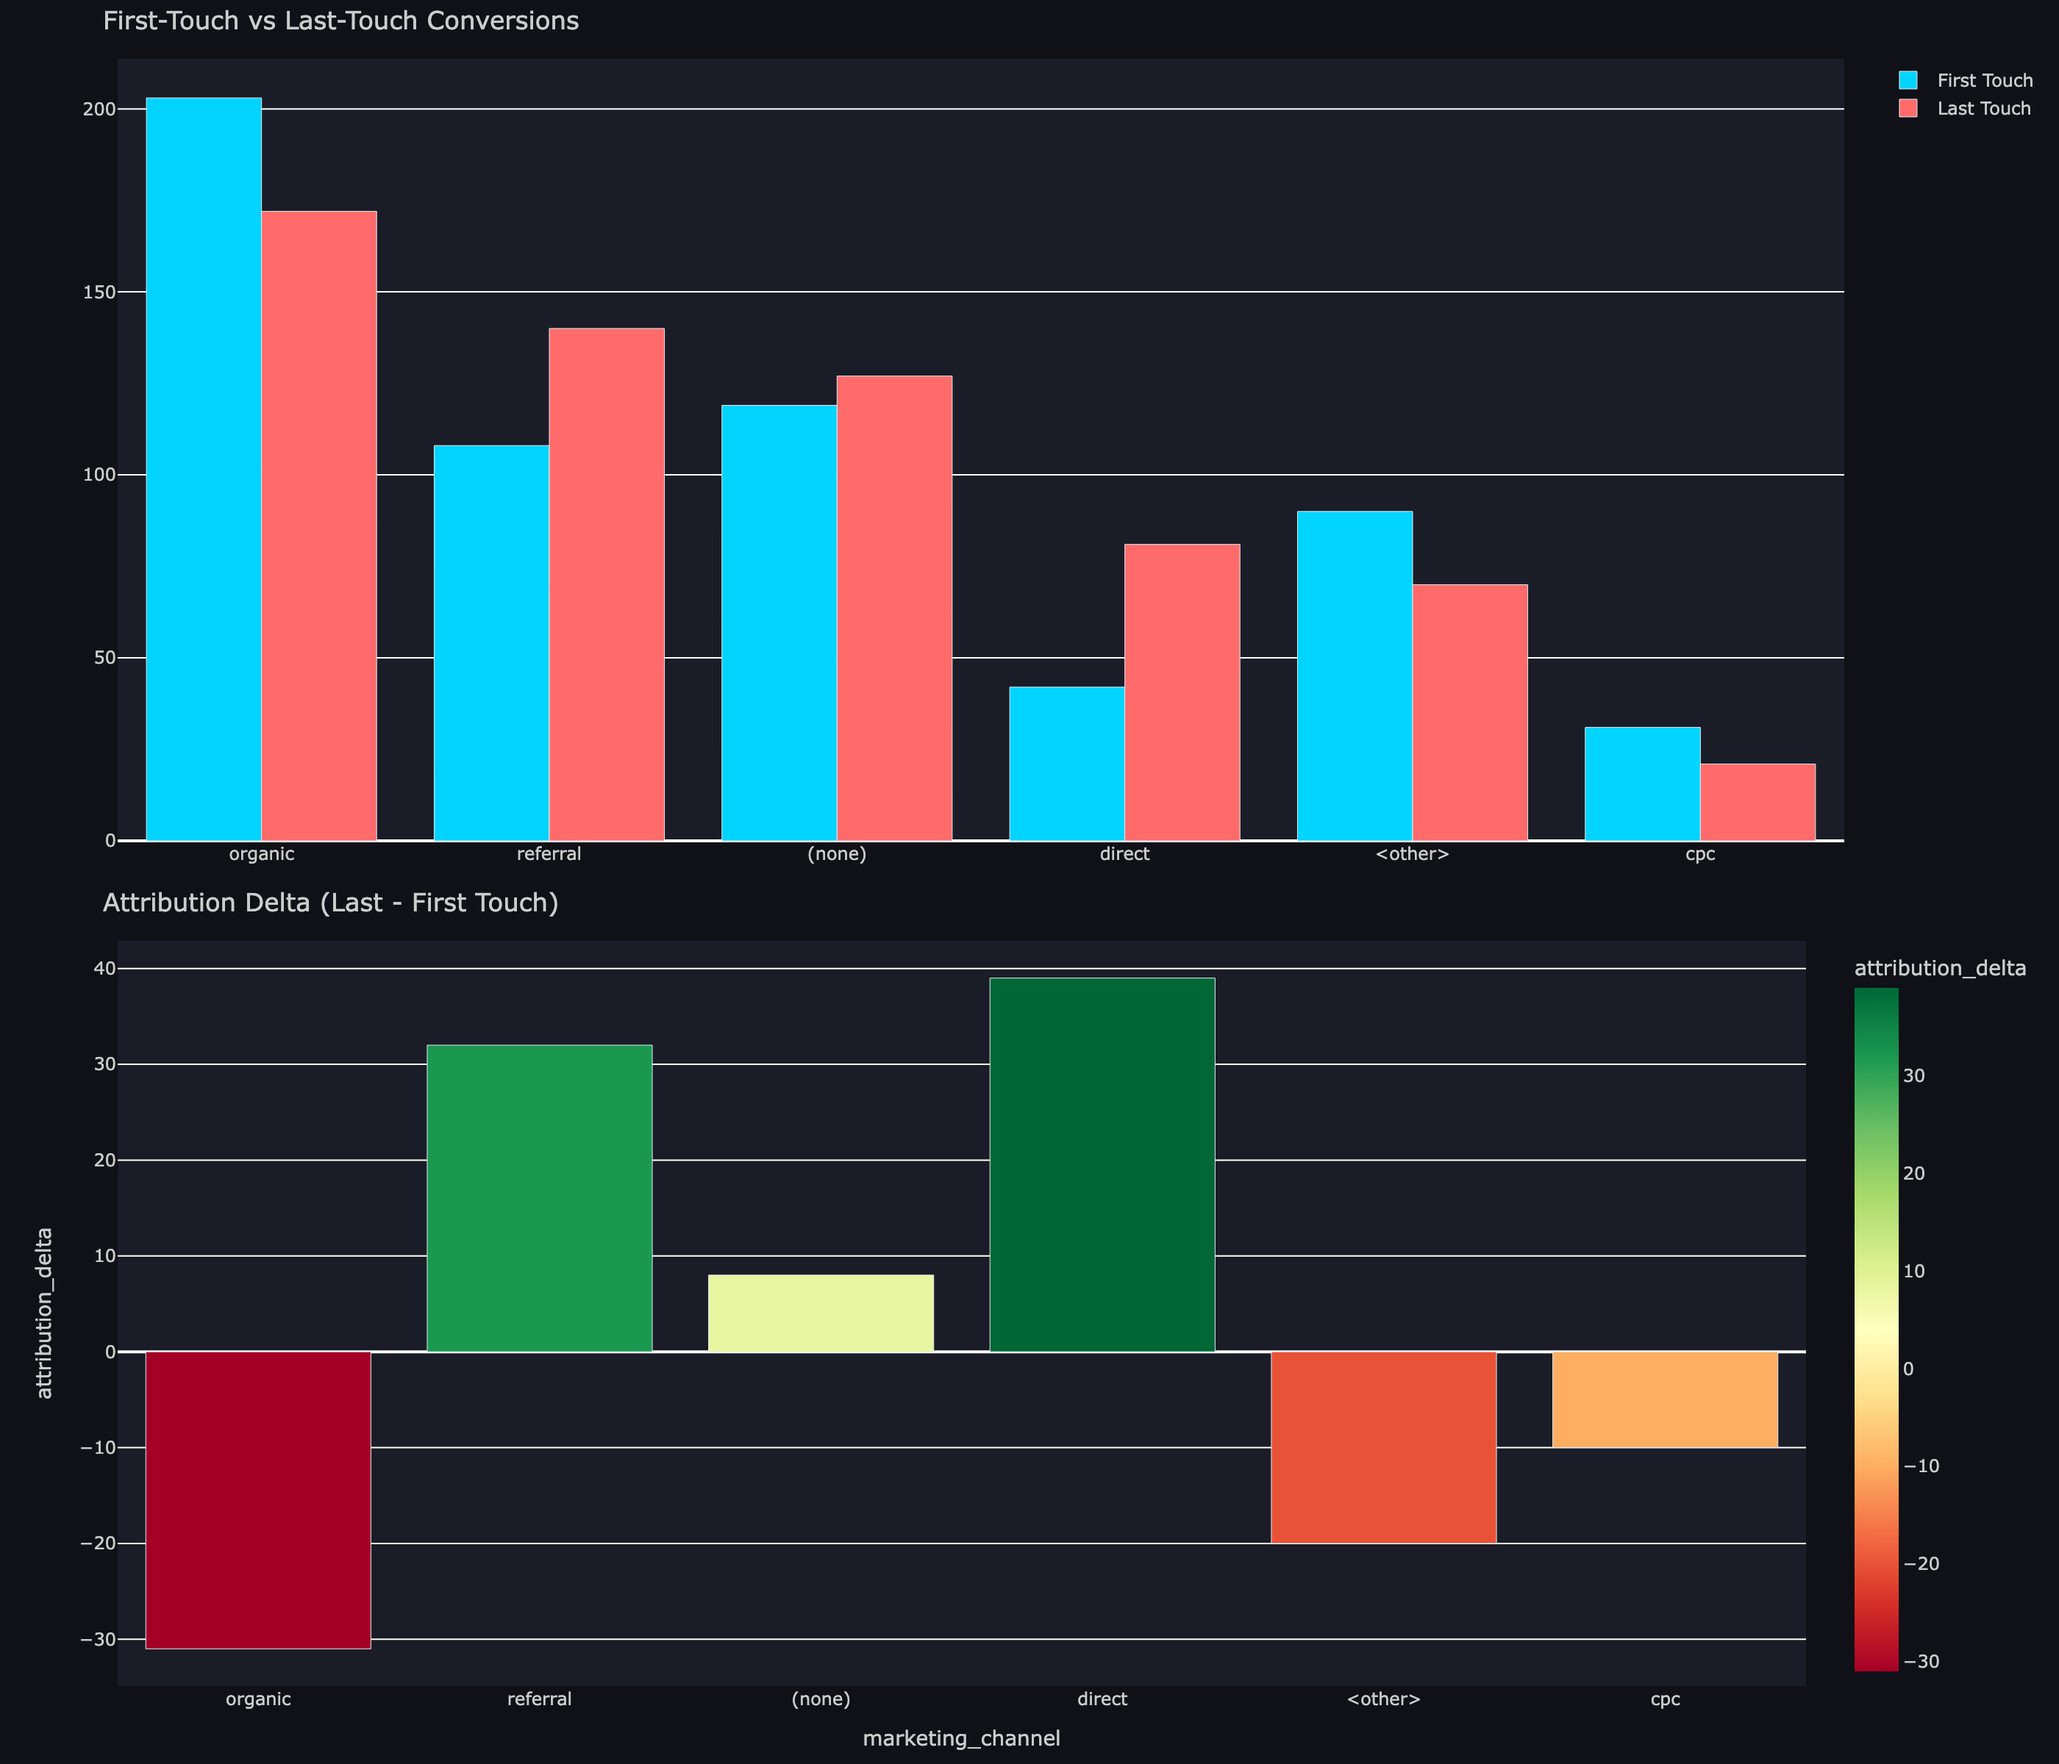
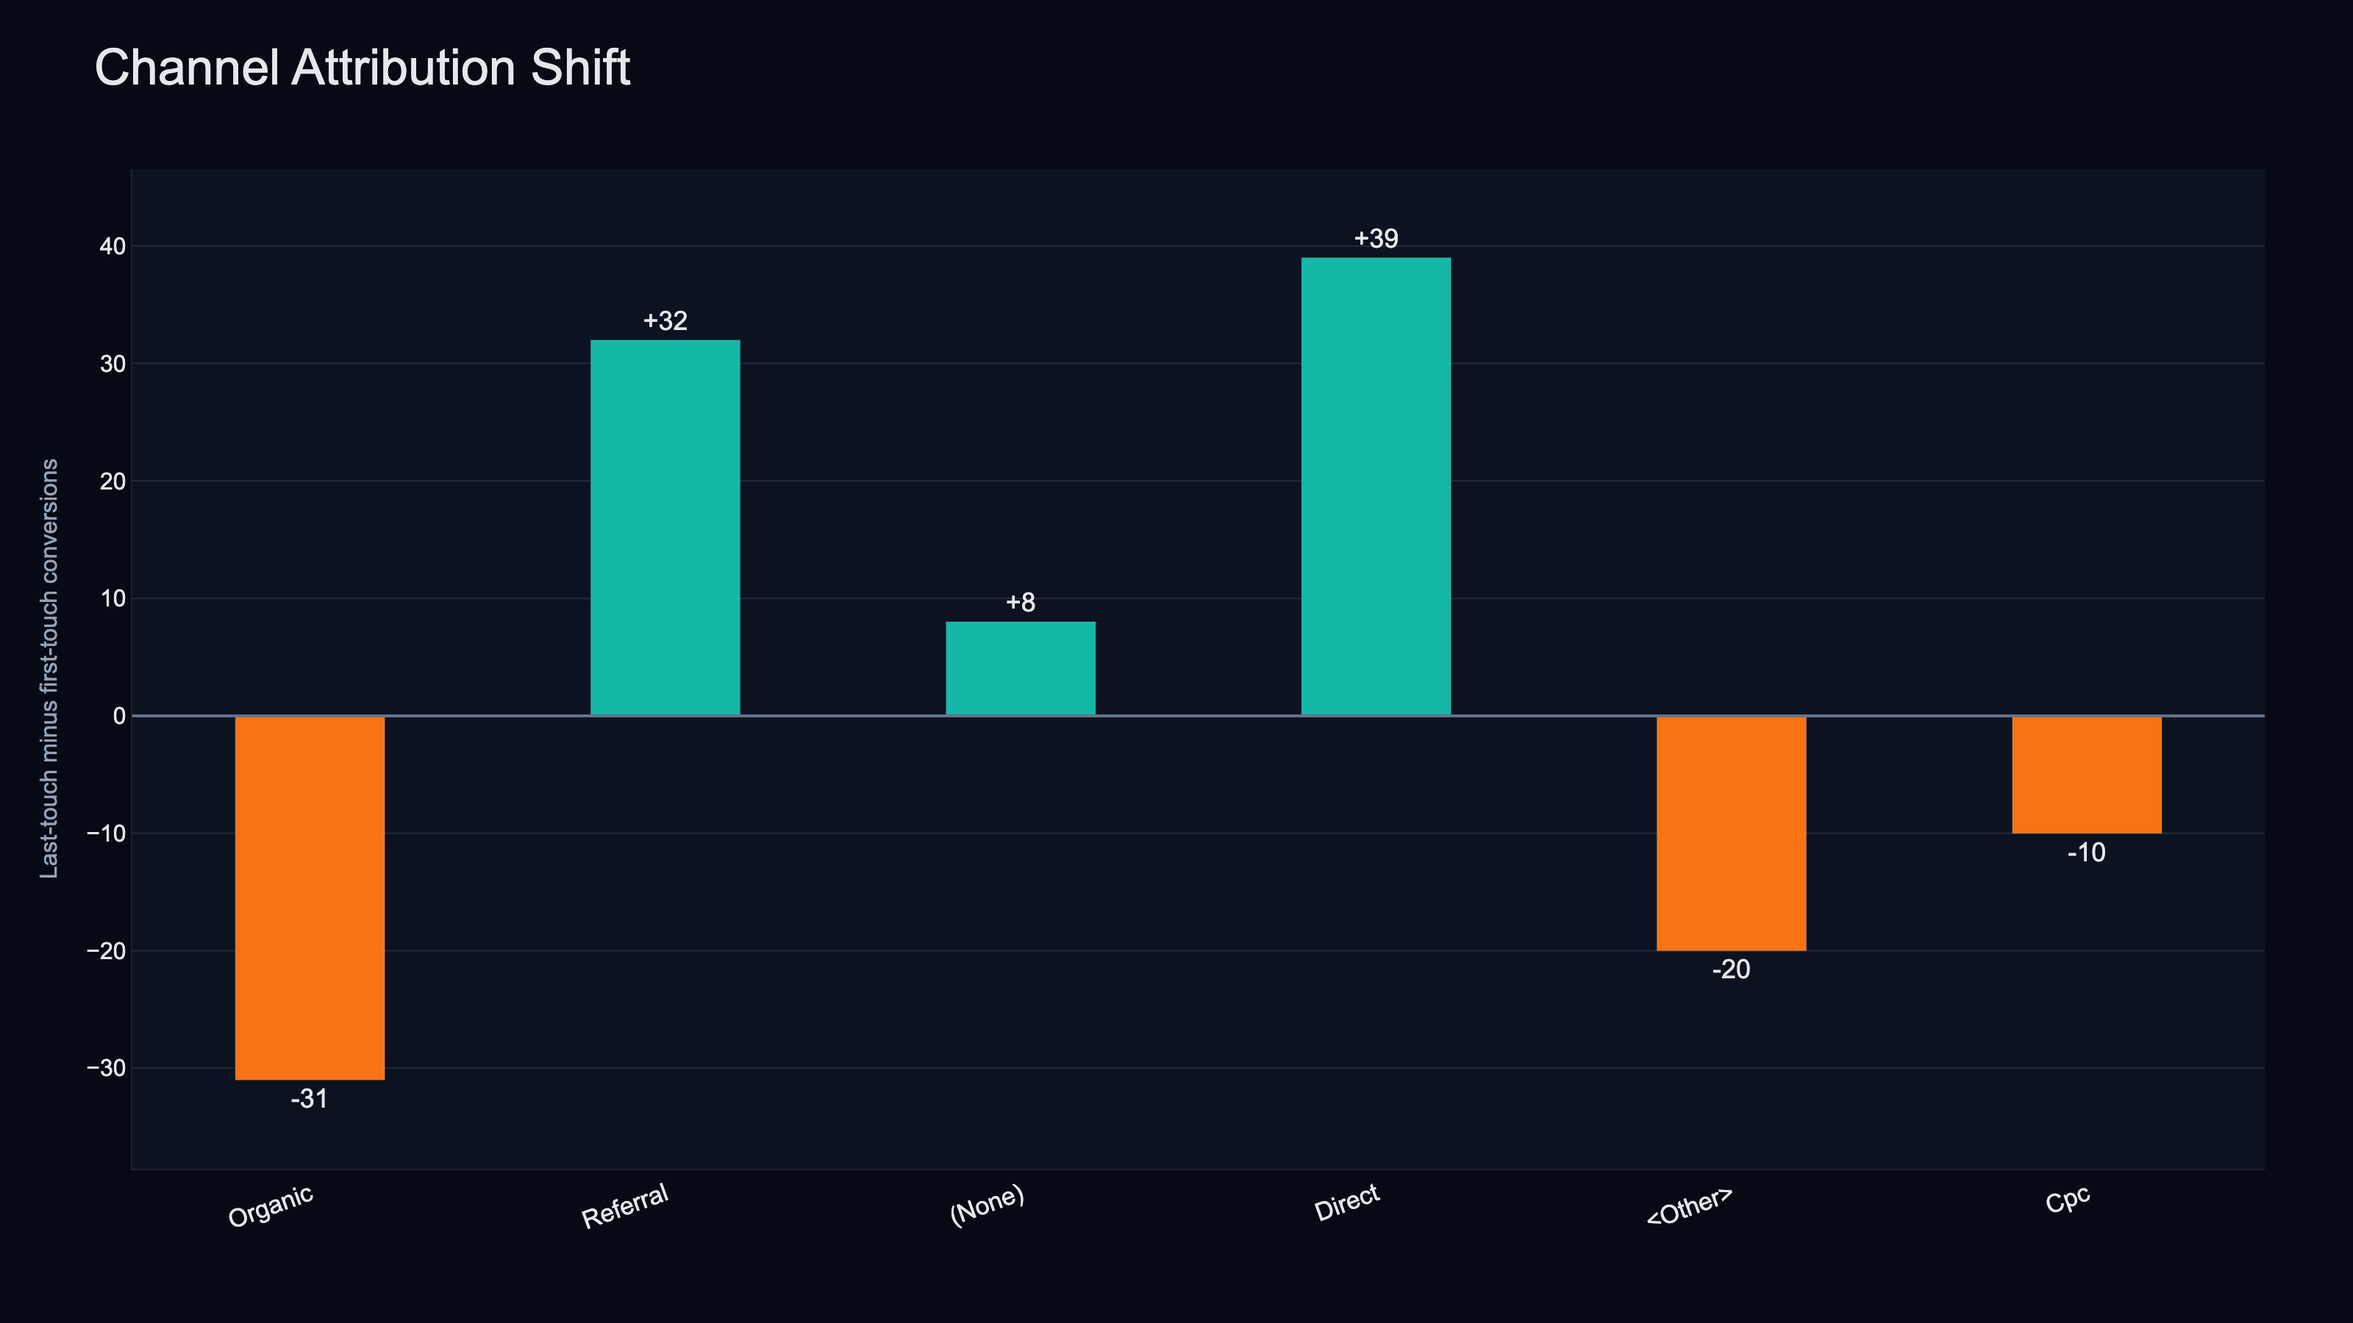
#

diff --git a/index.html b/index.html
@@ -787,6 +787,24 @@
                     </p>
                 </div>
 
+                <div class="space-y-1.5">
+                    <div class="text-[9px] font-mono text-gray-600 uppercase tracking-wider">Select dashboard view:</div>
+                    <div class="grid grid-cols-3 gap-2">
+                        <button id="growth-btn-1" onclick="AJ.switchGrowthStream('assets/growth/funnel_dropoff.png','🚀 PRODUCT ANALYTICS // FUNNEL DROP-OFF','Funnel Drop-off',this)"
+                            class="bg-blue-600 text-white font-mono text-[10px] font-bold py-2 rounded transition-colors cursor-pointer">
+                            Funnel Drop-off
+                        </button>
+                        <button id="growth-btn-2" onclick="AJ.switchGrowthStream('assets/growth/channel_attribution.png','🚀 PRODUCT ANALYTICS // CHANNEL ATTRIBUTION','Attribution',this)"
+                            class="bg-gray-900 border border-gray-800 text-gray-400 font-mono text-[10px] py-2 rounded transition-colors cursor-pointer">
+                            Attribution
+                        </button>
+                        <button id="growth-btn-3" onclick="AJ.switchGrowthStream('assets/growth/experiment_results.png','🚀 PRODUCT ANALYTICS // EXPERIMENT RESULTS','Experiment',this)"
+                            class="bg-gray-900 border border-gray-800 text-gray-400 font-mono text-[10px] py-2 rounded transition-colors cursor-pointer">
+                            Experiment
+                        </button>
+                    </div>
+                </div>
+
                 <div class="flex flex-wrap gap-1 pt-1">
                     <span class="chip">GA4 Analytics</span>
                     <span class="chip">SQL</span>
@@ -807,13 +825,16 @@
             </div>
 
             <div class="lg:col-span-7 reveal-right">
-                <div class="img-frame" onclick="AJ.openLightbox('assets/growth/funnel_leakage.png','Funnel Leakage Analysis')">
+                <div class="img-frame">
                     <div class="img-frame-bar">
-                        <span>🚀 PRODUCT ANALYTICS // FUNNEL_LEAKAGE.PNG</span>
-                        <span class="text-blue-400 font-bold text-[9px]">Click to expand</span>
+                        <span id="growth-label">🚀 PRODUCT ANALYTICS // FUNNEL DROP-OFF</span>
+                        <span onclick="AJ.openLightbox(document.getElementById('growth-img').src, document.getElementById('growth-img').dataset.lightboxLabel || 'Funnel Drop-off')"
+                              class="text-blue-400 font-bold text-[9px] cursor-pointer hover:text-blue-300 transition-colors">
+                            Click to expand
+                        </span>
                     </div>
-                    <div class="img-frame-body" style="height: 46vh;">
-                        <svg class="img-placeholder w-full h-full" viewBox="0 0 560 280" xmlns="http://www.w3.org/2000/svg" preserveAspectRatio="xMidYMid meet">
+                    <div class="img-frame-body" style="height: 46vh;" onclick="AJ.openLightbox(document.getElementById('growth-img').src, document.getElementById('growth-img').dataset.lightboxLabel || 'Funnel Drop-off')">
+                        <svg id="growth-svg" class="img-placeholder w-full h-full" viewBox="0 0 560 280" xmlns="http://www.w3.org/2000/svg" preserveAspectRatio="xMidYMid meet">
                             <rect width="560" height="280" fill="#040710"/>
                             <text x="280" y="25" text-anchor="middle" fill="#374151" font-family="monospace" font-size="10">Conversion Funnel — GA4 Session Analysis</text>
                             <rect x="40" y="40" width="480" height="36" rx="4" fill="#1e3a5f" stroke="#3b82f6" stroke-width="1.2"/>
@@ -831,8 +852,9 @@
                             <text x="340" y="225" text-anchor="end" fill="#34d399" font-family="monospace" font-size="10">1,084 · 3.1%</text>
                             <text x="280" y="268" text-anchor="middle" fill="#374151" font-family="monospace" font-size="9">High-intent sessions convert at 13× baseline · A/B tested at 95% CI</text>
                         </svg>
-                        <img class="img-real" src="assets/growth/funnel_leakage.png" alt="Funnel leakage dashboard"
-                             onload="this.classList.add('loaded'); this.previousElementSibling.style.opacity='0';"
+                        <img id="growth-img" class="img-real" src="assets/growth/funnel_dropoff.png" alt="Growth funnel dashboard"
+                             data-lightbox-label="Funnel Drop-off" style="object-fit: contain;"
+                             onload="this.classList.add('loaded'); document.getElementById('growth-svg').style.opacity='0';"
                              onerror="this.style.display='none'">
                     </div>
                 </div>
@@ -1339,7 +1361,7 @@ ORDER BY cvr DESC;</pre>
 <div class="text-[9px] text-blue-400 font-bold uppercase tracking-wider mt-4 mb-1">// A/B Test Framework</div>
 <p class="text-gray-400">Chi-square test on conversion proportions. High-intent (direct/branded) vs organic sessions. p &lt; 0.001. 13× lift confirmed at 95% CI.</p>`
             },
-            D: { dashboard: 'assets/growth/funnel_leakage.png', label: 'Funnel Leakage Analysis' }
+            D: { dashboard: 'assets/growth/funnel_dropoff.png', label: 'Funnel Drop-off' }
         },
         4: {
             E: {
@@ -1493,6 +1515,26 @@ rules = rules.sort_values('lift', ascending=False)
         });
     }
 
+    // ── Growth funnel switcher ──────────────────────────────────────
+    function switchGrowthStream(src, title, lightboxLabel, btn) {
+        const img = $('growth-img');
+        const lbl = $('growth-label');
+        const svg = $('growth-svg');
+        img.style.display = 'block';
+        img.src = src;
+        img.dataset.lightboxLabel = lightboxLabel;
+        lbl.textContent = title;
+        img.onload  = () => { img.classList.add('loaded'); if (svg) svg.style.opacity = '0'; };
+        img.onerror = () => { img.style.display = 'none'; };
+        ['growth-btn-1','growth-btn-2','growth-btn-3'].forEach(id => {
+            const b = $(id);
+            if (!b) return;
+            b.className = (b === btn)
+                ? 'bg-blue-600 text-white font-mono text-[10px] font-bold py-2 rounded transition-colors cursor-pointer'
+                : 'bg-gray-900 border border-gray-800 text-gray-400 font-mono text-[10px] py-2 rounded transition-colors cursor-pointer';
+        });
+    }
+
     // ── Segmentation warehouse switcher ─────────────────────────────
     function switchSegmentationStream(src, label, btn) {
         const img = $('segmentation-img');
@@ -1580,7 +1622,7 @@ rules = rules.sort_values('lift', ascending=False)
         init();
     }
 
-    return { openLightbox, closeLightbox, openDepth, closeDepthModal, switchKpiStream, switchSegmentationStream };
+    return { openLightbox, closeLightbox, openDepth, closeDepthModal, switchKpiStream, switchGrowthStream, switchSegmentationStream };
 })();
 </script>
 </body>
